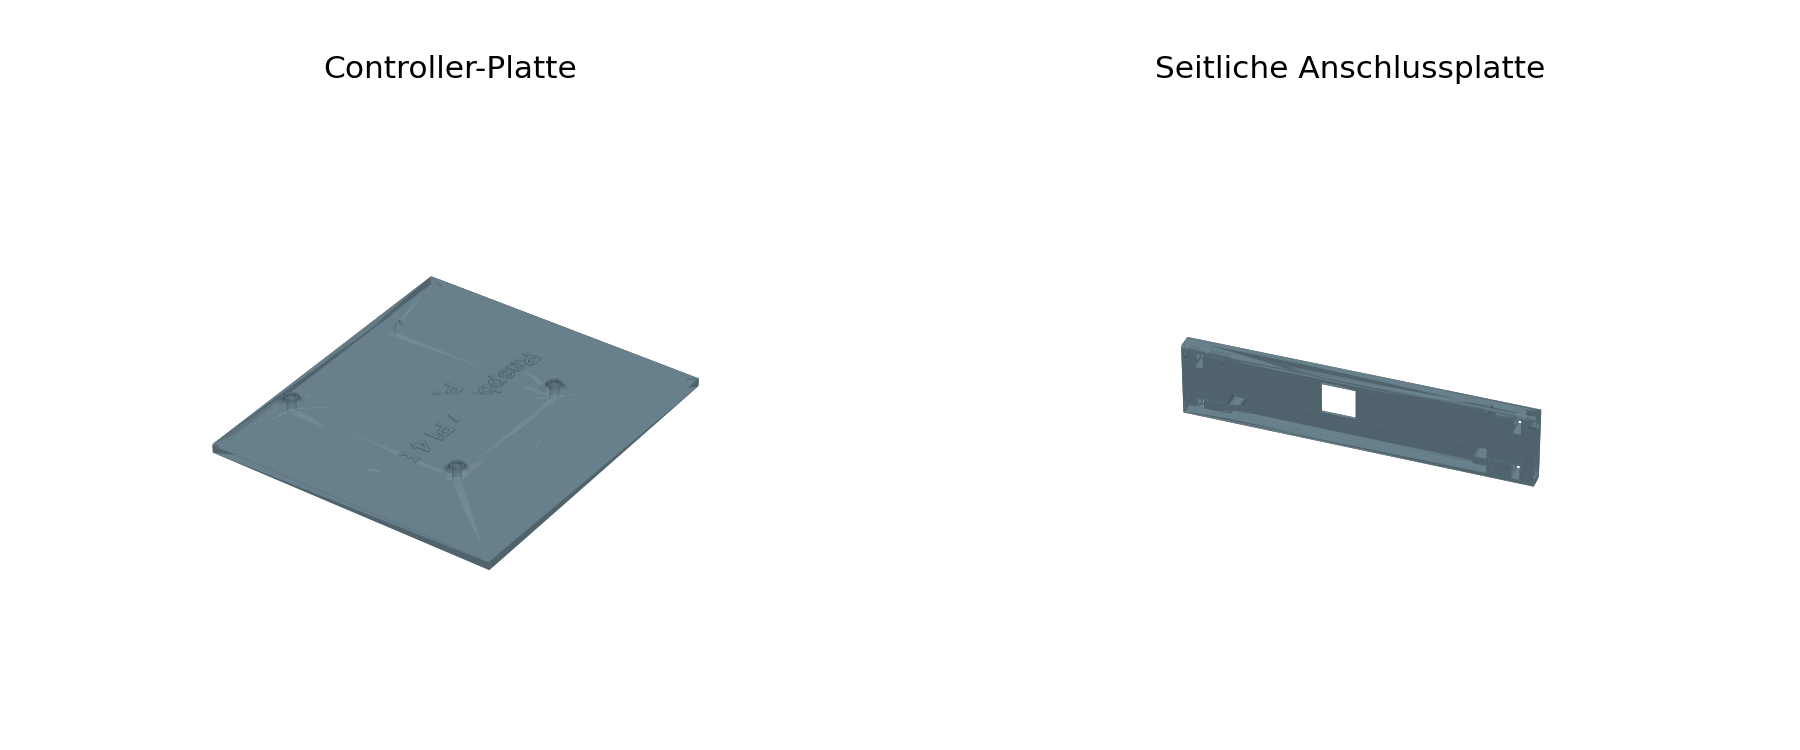
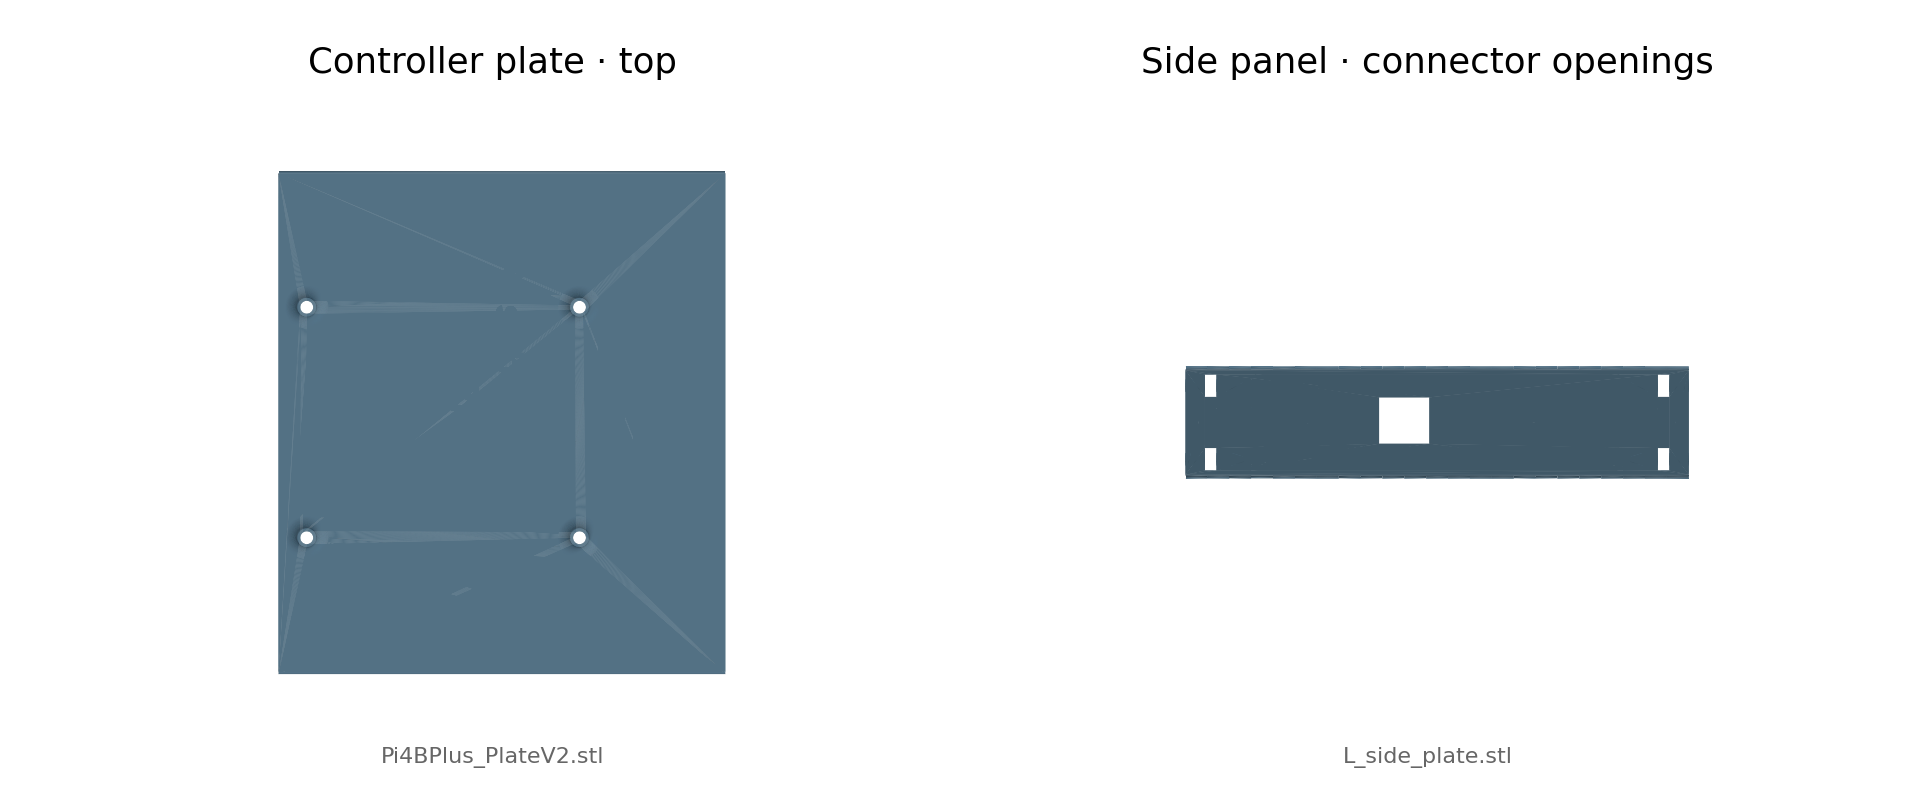
Replace hardware preview with orthographic STL views

diff --git a/scripts/render_hardware_preview.py b/scripts/render_hardware_preview.py
@@ -1,0 +1,35 @@
+#!/usr/bin/env python3
+"""Render orthographic views directly from the published STL geometry."""
+from pathlib import Path
+import matplotlib
+matplotlib.use('Agg')
+import matplotlib.pyplot as plt
+from mpl_toolkits.mplot3d.art3d import Poly3DCollection
+import numpy as np
+import trimesh
+
+ROOT = Path(__file__).resolve().parents[1]
+fig = plt.figure(figsize=(12, 5), facecolor='white')
+views = [
+    ('Pi4BPlus_PlateV2.stl', 'Controller plate · top', 90, -90),
+    ('L_side_plate.stl', 'Side panel · connector openings', 0, 0),
+]
+for i, (filename, title, elev, azim) in enumerate(views, 1):
+    mesh = trimesh.load(ROOT / 'hardware/modified' / filename)
+    ax = fig.add_subplot(1, 2, i, projection='3d', proj_type='ortho')
+    light = np.array([.4, -.3, .85]); light /= np.linalg.norm(light)
+    intensity = .55 + .45 * np.abs(mesh.face_normals @ light)
+    colors = np.array(matplotlib.colors.to_rgb('#58788d'))[None, :] * intensity[:, None]
+    ax.add_collection3d(Poly3DCollection(mesh.triangles, facecolors=colors, edgecolors='none', zsort='average'))
+    center = mesh.bounds.mean(axis=0)
+    radius = max(mesh.extents) * .52
+    ax.set_xlim(center[0]-radius, center[0]+radius)
+    ax.set_ylim(center[1]-radius, center[1]+radius)
+    ax.set_zlim(center[2]-radius, center[2]+radius)
+    ax.set_box_aspect((1, 1, 1), zoom=1.25)
+    ax.view_init(elev=elev, azim=azim)
+    ax.set_axis_off()
+    ax.set_title(title, fontsize=16, pad=0)
+    ax.text2D(.5, .03, filename, transform=ax.transAxes, ha='center', fontsize=10, color='#666666')
+fig.subplots_adjust(left=.02, right=.98, top=.90, bottom=.02, wspace=.03, hspace=.02)
+fig.savefig(ROOT / 'docs/media/modified-parts.png', dpi=160, facecolor='white')
